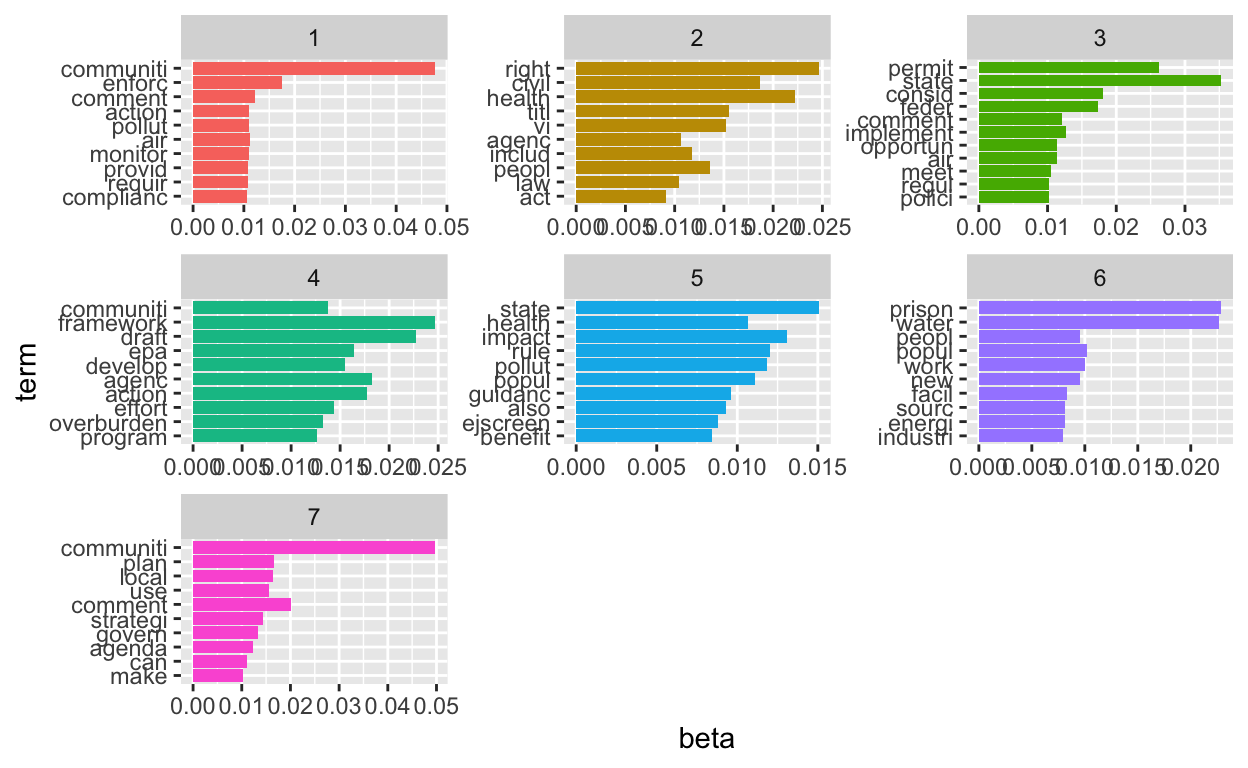
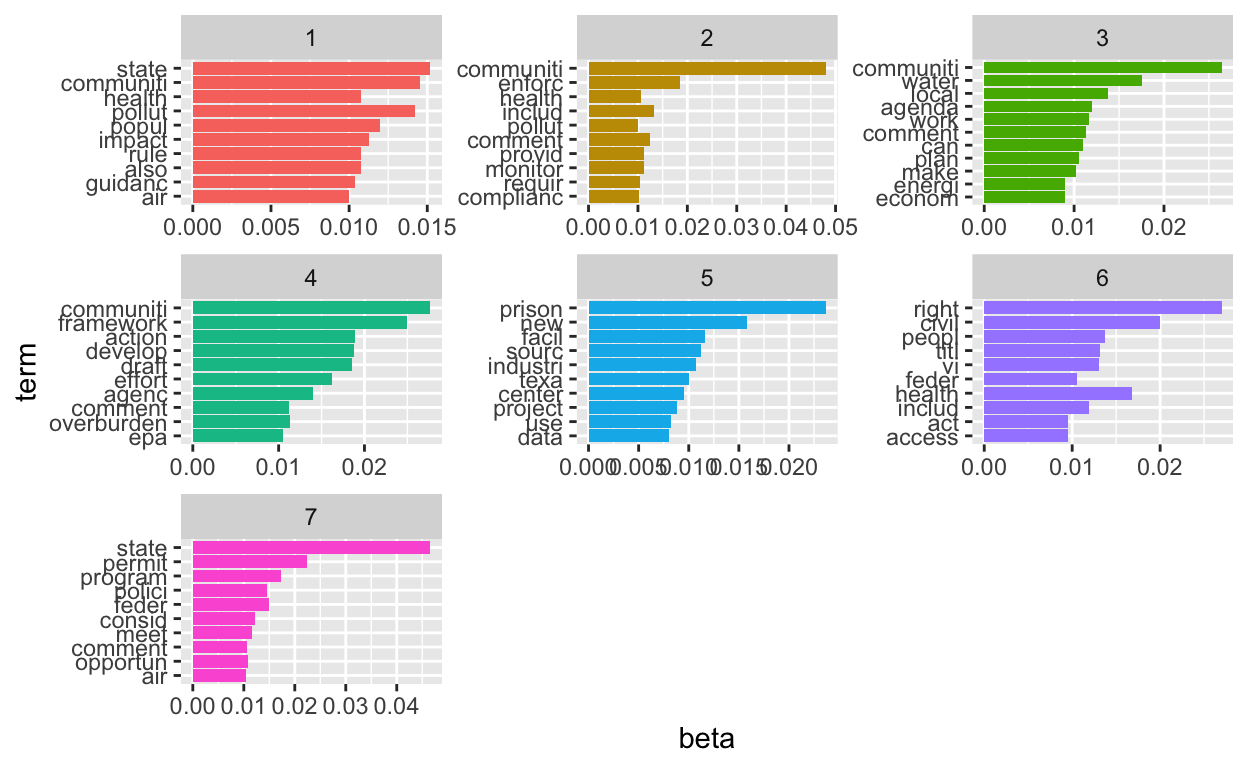
Topic 6 Commit

diff --git a/docs/topic_6.html b/docs/topic_6.html
@@ -2522,16 +2522,18 @@ Topics
 </code></pre>
 </div>
 </div>
-Load the data
+<p>Load the data</p>
 <div class="layout-chunk" data-layout="l-body">
 <div class="sourceCode">
 <pre class="sourceCode r"><code class="sourceCode r"><span class='co'>##Topic 6 .Rmd here:https://raw.githubusercontent.com/MaRo406/EDS_231-text-sentiment/main/topic_6.Rmd</span>
-<span class='co'>#grab data here: https://github.com/MaRo406/EDS_231-text-sentiment/blob/main/dat/comments_df.csv</span>
-<span class='va'>comments_df</span> <span class='op'>&lt;-</span> <span class='fu'><a href='https://readr.tidyverse.org/reference/read_delim.html'>read_csv</a></span><span class='op'>(</span><span class='fu'><a href='https://here.r-lib.org//reference/here.html'>here</a></span><span class='op'>(</span><span class='st'>"dat"</span>, <span class='st'>"comments_df.csv"</span><span class='op'>)</span><span class='op'>)</span>
+<span class='co'>#grab data here: </span>
+<span class='va'>comments_df</span><span class='op'>&lt;-</span><span class='fu'><a href='https://readr.tidyverse.org/reference/read_delim.html'>read_csv</a></span><span class='op'>(</span><span class='st'>"https://raw.githubusercontent.com/MaRo406/EDS_231-text-sentiment/main/dat/comments_df.csv"</span><span class='op'>)</span>
+
+<span class='co'>#comments_df &lt;- read_csv(here("dat", "comments_df.csv")) #if reading from local</span>
 </code></pre>
 </div>
 </div>
-Now we’ll build and clean the corpus
+<p>Now we’ll build and clean the corpus</p>
 <div class="layout-chunk" data-layout="l-body">
 <div class="sourceCode">
 <pre class="sourceCode r"><code class="sourceCode r"><span class='va'>epa_corp</span> <span class='op'>&lt;-</span> <span class='fu'><a href='https://quanteda.io/reference/corpus.html'>corpus</a></span><span class='op'>(</span>x <span class='op'>=</span> <span class='va'>comments_df</span>, text_field <span class='op'>=</span> <span class='st'>"text"</span><span class='op'>)</span>
@@ -2599,7 +2601,7 @@ Now we’ll build and clean the corpus
 </code></pre>
 </div>
 </div>
-And now convert to a document-feature matrix
+<p>And now convert to a document-feature matrix</p>
 <div class="layout-chunk" data-layout="l-body">
 <div class="sourceCode">
 <pre class="sourceCode r"><code class="sourceCode r"><span class='va'>dfm_comm</span><span class='op'>&lt;-</span> <span class='fu'><a href='https://quanteda.io/reference/dfm.html'>dfm</a></span><span class='op'>(</span><span class='va'>toks1</span>, tolower <span class='op'>=</span> <span class='cn'>TRUE</span><span class='op'>)</span>
@@ -2643,18 +2645,77 @@ Compliance and Enforcement, Science, States and Local Governments,
 Federal Agencies, Community-based Work, Tribes and Indigenous People,
 National Measures. Maybe the comments correspond to those areas?</p>
 <div class="layout-chunk" data-layout="l-body">
-<pre class="rlda_modeling"><code>k &lt;- 9 
+<div class="sourceCode">
+<pre class="sourceCode r"><code class="sourceCode r"><span class='va'>k</span> <span class='op'>&lt;-</span> <span class='fl'>9</span> 
 
-topicModel_k9 &lt;- LDA(dfm, k, method=&quot;Gibbs&quot;, control=list(iter = 500, verbose = 25))
-#nTerms(dfm_comm) 
+<span class='va'>topicModel_k9</span> <span class='op'>&lt;-</span> <span class='fu'><a href='https://rdrr.io/pkg/topicmodels/man/lda.html'>LDA</a></span><span class='op'>(</span><span class='va'>dfm</span>, <span class='va'>k</span>, method<span class='op'>=</span><span class='st'>"Gibbs"</span>, control<span class='op'>=</span><span class='fu'><a href='https://rdrr.io/r/base/list.html'>list</a></span><span class='op'>(</span>iter <span class='op'>=</span> <span class='fl'>500</span>, verbose <span class='op'>=</span> <span class='fl'>25</span><span class='op'>)</span><span class='op'>)</span>
+</code></pre>
+</div>
+<pre><code>K = 9; V = 2781; M = 77
+Sampling 500 iterations!
+Iteration 25 ...
+Iteration 50 ...
+Iteration 75 ...
+Iteration 100 ...
+Iteration 125 ...
+Iteration 150 ...
+Iteration 175 ...
+Iteration 200 ...
+Iteration 225 ...
+Iteration 250 ...
+Iteration 275 ...
+Iteration 300 ...
+Iteration 325 ...
+Iteration 350 ...
+Iteration 375 ...
+Iteration 400 ...
+Iteration 425 ...
+Iteration 450 ...
+Iteration 475 ...
+Iteration 500 ...
+Gibbs sampling completed!</code></pre>
+<div class="sourceCode">
+<pre class="sourceCode r"><code class="sourceCode r"><span class='co'>#nTerms(dfm_comm) </span>
 
-
-tmResult &lt;- posterior(topicModel_k9)
-attributes(tmResult)
-#nTerms(dfm_comm)   
-beta &lt;- tmResult$terms   # get beta from results
-dim(beta)                # K distributions over nTerms(DTM) terms# lengthOfVocab
-terms(topicModel_k9, 10)</code></pre>
+<span class='va'>tmResult</span> <span class='op'>&lt;-</span> <span class='fu'>posterior</span><span class='op'>(</span><span class='va'>topicModel_k9</span><span class='op'>)</span>
+<span class='fu'><a href='https://rdrr.io/r/base/attributes.html'>attributes</a></span><span class='op'>(</span><span class='va'>tmResult</span><span class='op'>)</span>
+</code></pre>
+</div>
+<pre><code>$names
+[1] &quot;terms&quot;  &quot;topics&quot;</code></pre>
+<div class="sourceCode">
+<pre class="sourceCode r"><code class="sourceCode r"><span class='co'>#nTerms(dfm_comm)   </span>
+<span class='va'>beta</span> <span class='op'>&lt;-</span> <span class='va'>tmResult</span><span class='op'>$</span><span class='va'>terms</span>   <span class='co'># get beta from results</span>
+<span class='fu'><a href='https://rdrr.io/r/base/dim.html'>dim</a></span><span class='op'>(</span><span class='va'>beta</span><span class='op'>)</span>                <span class='co'># K distributions over nTerms(DTM) terms# lengthOfVocab</span>
+</code></pre>
+</div>
+<pre><code>[1]    9 2781</code></pre>
+<div class="sourceCode">
+<pre class="sourceCode r"><code class="sourceCode r"><span class='fu'><a href='https://rdrr.io/r/stats/terms.html'>terms</a></span><span class='op'>(</span><span class='va'>topicModel_k9</span>, <span class='fl'>10</span><span class='op'>)</span>
+</code></pre>
+</div>
+<pre><code>      Topic 1     Topic 2    Topic 3   Topic 4     Topic 5  
+ [1,] &quot;communiti&quot; &quot;prison&quot;   &quot;program&quot; &quot;framework&quot; &quot;right&quot;  
+ [2,] &quot;pollut&quot;    &quot;site&quot;     &quot;state&quot;   &quot;draft&quot;     &quot;health&quot; 
+ [3,] &quot;need&quot;      &quot;water&quot;    &quot;feder&quot;   &quot;action&quot;    &quot;civil&quot;  
+ [4,] &quot;comment&quot;   &quot;energi&quot;   &quot;agenc&quot;   &quot;effort&quot;    &quot;peopl&quot;  
+ [5,] &quot;clean&quot;     &quot;popul&quot;    &quot;issu&quot;    &quot;agenc&quot;     &quot;law&quot;    
+ [6,] &quot;protect&quot;   &quot;facil&quot;    &quot;act&quot;     &quot;develop&quot;   &quot;citi&quot;   
+ [7,] &quot;air&quot;       &quot;project&quot;  &quot;vi&quot;      &quot;communiti&quot; &quot;park&quot;   
+ [8,] &quot;impact&quot;    &quot;industri&quot; &quot;polici&quot;  &quot;epa&quot;       &quot;includ&quot; 
+ [9,] &quot;area&quot;      &quot;gas&quot;      &quot;follow&quot;  &quot;support&quot;   &quot;address&quot;
+[10,] &quot;result&quot;    &quot;counti&quot;   &quot;will&quot;    &quot;goal&quot;      &quot;access&quot; 
+      Topic 6     Topic 7    Topic 8     Topic 9    
+ [1,] &quot;communiti&quot; &quot;rule&quot;     &quot;state&quot;     &quot;communiti&quot;
+ [2,] &quot;enforc&quot;    &quot;impact&quot;   &quot;permit&quot;    &quot;work&quot;     
+ [3,] &quot;includ&quot;    &quot;state&quot;    &quot;consid&quot;    &quot;plan&quot;     
+ [4,] &quot;monitor&quot;   &quot;health&quot;   &quot;comment&quot;   &quot;use&quot;      
+ [5,] &quot;action&quot;    &quot;provid&quot;   &quot;organ&quot;     &quot;strategi&quot; 
+ [6,] &quot;provid&quot;    &quot;popul&quot;    &quot;use&quot;       &quot;make&quot;     
+ [7,] &quot;permit&quot;    &quot;must&quot;     &quot;grant&quot;     &quot;agenda&quot;   
+ [8,] &quot;data&quot;      &quot;ejscreen&quot; &quot;feder&quot;     &quot;particip&quot; 
+ [9,] &quot;requir&quot;    &quot;also&quot;     &quot;framework&quot; &quot;local&quot;    
+[10,] &quot;complianc&quot; &quot;asthma&quot;   &quot;air&quot;       &quot;help&quot;     </code></pre>
 </div>
 <p>Some of those topics seem related to the cross-cutting and additional
 topics identified in the EPA’s response to the public comments:</p>
@@ -2693,7 +2754,7 @@ calculate metrics:
 <pre class="sourceCode r"><code class="sourceCode r"><span class='fu'><a href='https://rdrr.io/pkg/ldatuning/man/FindTopicsNumber_plot.html'>FindTopicsNumber_plot</a></span><span class='op'>(</span><span class='va'>result</span><span class='op'>)</span>
 </code></pre>
 </div>
-<img src="topic_6_files/figure-html5/LDA_modeling-1.png" width="624" />
+<img src="topic_6_files/figure-html5/LDA_again-1.png" width="624" />
 <div class="sourceCode">
 <pre class="sourceCode r"><code class="sourceCode r"><span class='va'>k</span> <span class='op'>&lt;-</span> <span class='fl'>7</span>
 
@@ -2728,28 +2789,28 @@ Gibbs sampling completed!</code></pre>
 <span class='fu'><a href='https://rdrr.io/r/stats/terms.html'>terms</a></span><span class='op'>(</span><span class='va'>topicModel_k7</span>, <span class='fl'>10</span><span class='op'>)</span>
 </code></pre>
 </div>
-<pre><code>      Topic 1     Topic 2  Topic 3     Topic 4      Topic 5   
- [1,] &quot;communiti&quot; &quot;right&quot;  &quot;state&quot;     &quot;framework&quot;  &quot;state&quot;   
- [2,] &quot;enforc&quot;    &quot;health&quot; &quot;permit&quot;    &quot;draft&quot;      &quot;impact&quot;  
- [3,] &quot;comment&quot;   &quot;civil&quot;  &quot;consid&quot;    &quot;agenc&quot;      &quot;rule&quot;    
- [4,] &quot;air&quot;       &quot;titl&quot;   &quot;feder&quot;     &quot;action&quot;     &quot;pollut&quot;  
- [5,] &quot;action&quot;    &quot;vi&quot;     &quot;implement&quot; &quot;epa&quot;        &quot;popul&quot;   
- [6,] &quot;pollut&quot;    &quot;peopl&quot;  &quot;comment&quot;   &quot;develop&quot;    &quot;health&quot;  
- [7,] &quot;monitor&quot;   &quot;includ&quot; &quot;air&quot;       &quot;effort&quot;     &quot;guidanc&quot; 
- [8,] &quot;provid&quot;    &quot;agenc&quot;  &quot;opportun&quot;  &quot;communiti&quot;  &quot;also&quot;    
- [9,] &quot;requir&quot;    &quot;law&quot;    &quot;meet&quot;      &quot;overburden&quot; &quot;ejscreen&quot;
-[10,] &quot;complianc&quot; &quot;act&quot;    &quot;polici&quot;    &quot;program&quot;    &quot;benefit&quot; 
-      Topic 6    Topic 7    
- [1,] &quot;prison&quot;   &quot;communiti&quot;
- [2,] &quot;water&quot;    &quot;comment&quot;  
- [3,] &quot;popul&quot;    &quot;plan&quot;     
- [4,] &quot;work&quot;     &quot;local&quot;    
- [5,] &quot;new&quot;      &quot;use&quot;      
- [6,] &quot;peopl&quot;    &quot;strategi&quot; 
- [7,] &quot;facil&quot;    &quot;govern&quot;   
- [8,] &quot;energi&quot;   &quot;agenda&quot;   
- [9,] &quot;sourc&quot;    &quot;can&quot;      
-[10,] &quot;industri&quot; &quot;make&quot;     </code></pre>
+<pre><code>      Topic 1     Topic 2     Topic 3     Topic 4      Topic 5   
+ [1,] &quot;state&quot;     &quot;communiti&quot; &quot;communiti&quot; &quot;communiti&quot;  &quot;prison&quot;  
+ [2,] &quot;communiti&quot; &quot;enforc&quot;    &quot;water&quot;     &quot;framework&quot;  &quot;new&quot;     
+ [3,] &quot;pollut&quot;    &quot;includ&quot;    &quot;local&quot;     &quot;action&quot;     &quot;facil&quot;   
+ [4,] &quot;popul&quot;     &quot;comment&quot;   &quot;agenda&quot;    &quot;develop&quot;    &quot;sourc&quot;   
+ [5,] &quot;impact&quot;    &quot;provid&quot;    &quot;work&quot;      &quot;draft&quot;      &quot;industri&quot;
+ [6,] &quot;rule&quot;      &quot;monitor&quot;   &quot;comment&quot;   &quot;effort&quot;     &quot;texa&quot;    
+ [7,] &quot;health&quot;    &quot;health&quot;    &quot;can&quot;       &quot;agenc&quot;      &quot;center&quot;  
+ [8,] &quot;also&quot;      &quot;requir&quot;    &quot;plan&quot;      &quot;overburden&quot; &quot;project&quot; 
+ [9,] &quot;guidanc&quot;   &quot;complianc&quot; &quot;make&quot;      &quot;comment&quot;    &quot;use&quot;     
+[10,] &quot;air&quot;       &quot;pollut&quot;    &quot;econom&quot;    &quot;epa&quot;        &quot;data&quot;    
+      Topic 6  Topic 7   
+ [1,] &quot;right&quot;  &quot;state&quot;   
+ [2,] &quot;civil&quot;  &quot;permit&quot;  
+ [3,] &quot;health&quot; &quot;program&quot; 
+ [4,] &quot;peopl&quot;  &quot;feder&quot;   
+ [5,] &quot;titl&quot;   &quot;polici&quot;  
+ [6,] &quot;vi&quot;     &quot;consid&quot;  
+ [7,] &quot;includ&quot; &quot;meet&quot;    
+ [8,] &quot;feder&quot;  &quot;opportun&quot;
+ [9,] &quot;access&quot; &quot;comment&quot; 
+[10,] &quot;act&quot;    &quot;air&quot;     </code></pre>
 <div class="sourceCode">
 <pre class="sourceCode r"><code class="sourceCode r"><span class='va'>theta</span> <span class='op'>&lt;-</span> <span class='va'>tmResult</span><span class='op'>$</span><span class='va'>topics</span>
 <span class='va'>beta</span> <span class='op'>&lt;-</span> <span class='va'>tmResult</span><span class='op'>$</span><span class='va'>terms</span>
@@ -2761,8 +2822,6 @@ Gibbs sampling completed!</code></pre>
 value. You can <a
 href="#multiple%20proposed%20methods%20for%20measuring%20the%20best%20k%20value.%20You%20can">go
 down the rabbit hole here</a></p>
-<p>json_lda &lt;- LDAvis::createJSON(phi = beta, theta = theta, vocab =
-vocab, doc.length = doc_length, term.frequency = freq_matrix$Freq)</p>
 <div class="layout-chunk" data-layout="l-body">
 <div class="sourceCode">
 <pre class="sourceCode r"><code class="sourceCode r"><span class='va'>comment_topics</span> <span class='op'>&lt;-</span> <span class='fu'><a href='https://generics.r-lib.org/reference/tidy.html'>tidy</a></span><span class='op'>(</span><span class='va'>topicModel_k7</span>, matrix <span class='op'>=</span> <span class='st'>"beta"</span><span class='op'>)</span>
@@ -2777,18 +2836,18 @@ vocab, doc.length = doc_length, term.frequency = freq_matrix$Freq)</p>
 </code></pre>
 </div>
 <pre><code># A tibble: 71 × 3
-   topic term        beta
-   &lt;int&gt; &lt;chr&gt;      &lt;dbl&gt;
- 1     1 communiti 0.0477
- 2     1 enforc    0.0175
- 3     1 comment   0.0122
- 4     1 air       0.0113
- 5     1 action    0.0111
- 6     1 pollut    0.0111
- 7     1 monitor   0.0110
- 8     1 provid    0.0108
- 9     1 requir    0.0108
-10     1 complianc 0.0105
+   topic term         beta
+   &lt;int&gt; &lt;chr&gt;       &lt;dbl&gt;
+ 1     1 state     0.0152 
+ 2     1 communiti 0.0145 
+ 3     1 pollut    0.0142 
+ 4     1 popul     0.0120 
+ 5     1 impact    0.0113 
+ 6     1 rule      0.0108 
+ 7     1 health    0.0108 
+ 8     1 also      0.0108 
+ 9     1 guidanc   0.0104 
+10     1 air       0.00996
 # … with 61 more rows</code></pre>
 </div>
 <div class="layout-chunk" data-layout="l-body">
@@ -2803,8 +2862,8 @@ vocab, doc.length = doc_length, term.frequency = freq_matrix$Freq)</p>
 </div>
 <p><img src="topic_6_files/figure-html5/plot_top_terms-1.png" width="624" /></p>
 </div>
-Let’s assign names to the topics so we know what we are working with. We
-can name them by their top terms
+<p>Let’s assign names to the topics so we know what we are working with.
+We can name them by their top terms</p>
 <div class="layout-chunk" data-layout="l-body">
 <div class="sourceCode">
 <pre class="sourceCode r"><code class="sourceCode r"><span class='va'>top5termsPerTopic</span> <span class='op'>&lt;-</span> <span class='fu'><a href='https://rdrr.io/r/stats/terms.html'>terms</a></span><span class='op'>(</span><span class='va'>topicModel_k7</span>, <span class='fl'>5</span><span class='op'>)</span>
@@ -2812,8 +2871,8 @@ can name them by their top terms
 </code></pre>
 </div>
 </div>
-We can explore the theta matrix, which contains the distribution of each
-topic over each document
+<p>We can explore the theta matrix, which contains the distribution of
+each topic over each document</p>
 <div class="layout-chunk" data-layout="l-body">
 <div class="sourceCode">
 <pre class="sourceCode r"><code class="sourceCode r"><span class='va'>exampleIds</span> <span class='op'>&lt;-</span> <span class='fu'><a href='https://rdrr.io/r/base/c.html'>c</a></span><span class='op'>(</span><span class='fl'>1</span>, <span class='fl'>2</span>, <span class='fl'>3</span><span class='op'>)</span>
@@ -2851,7 +2910,7 @@ topic over each document
 </code></pre>
 </div>
 </div>
-<div class="sourceCode" id="cb8"><pre
+<div class="sourceCode" id="cb11"><pre
 class="sourceCode r distill-force-highlighting-css"><code class="sourceCode r"></code></pre></div>
 <!--radix_placeholder_article_footer-->
 <!--/radix_placeholder_article_footer-->
